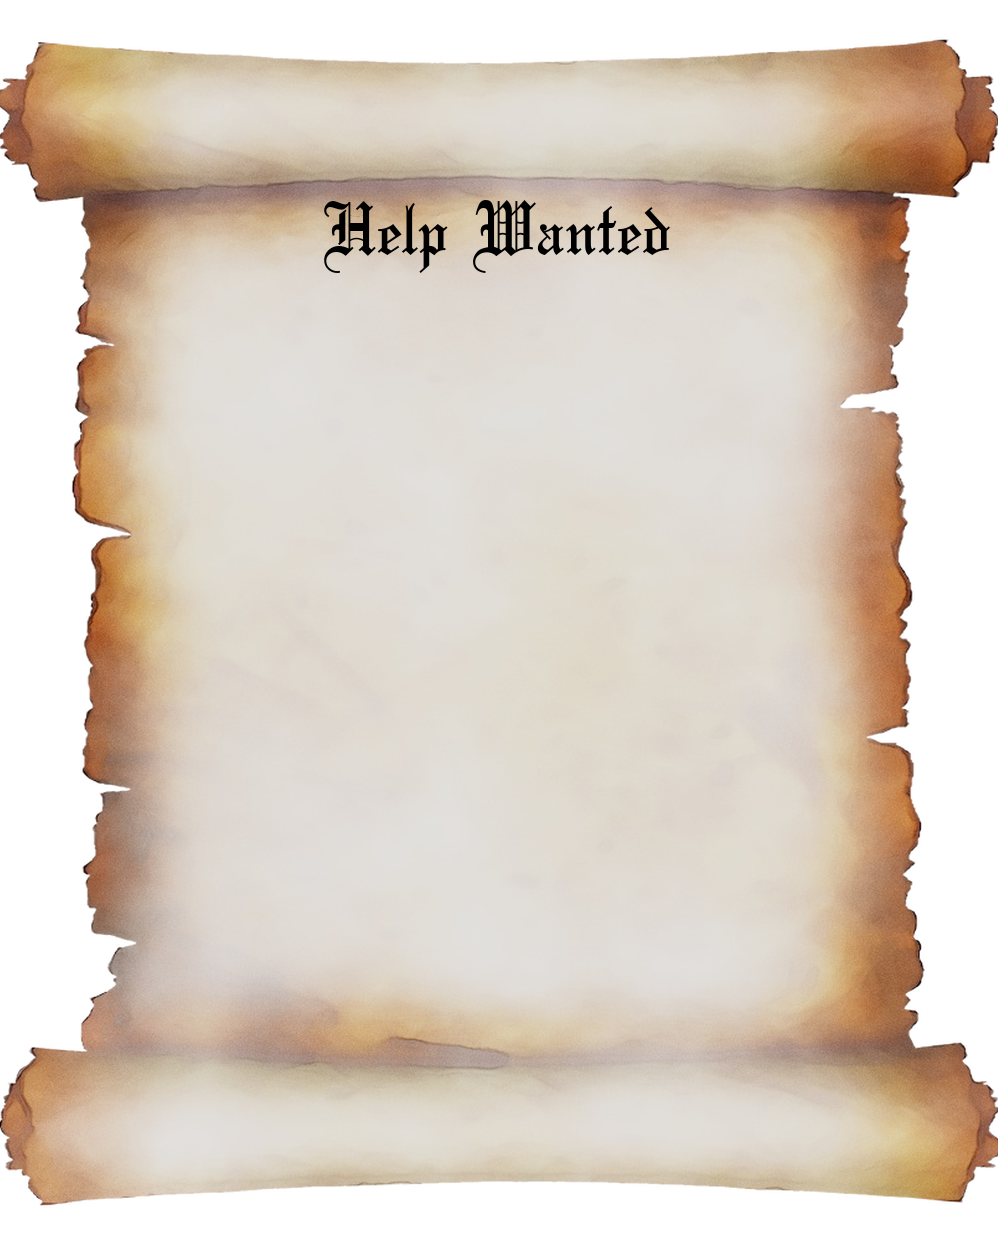
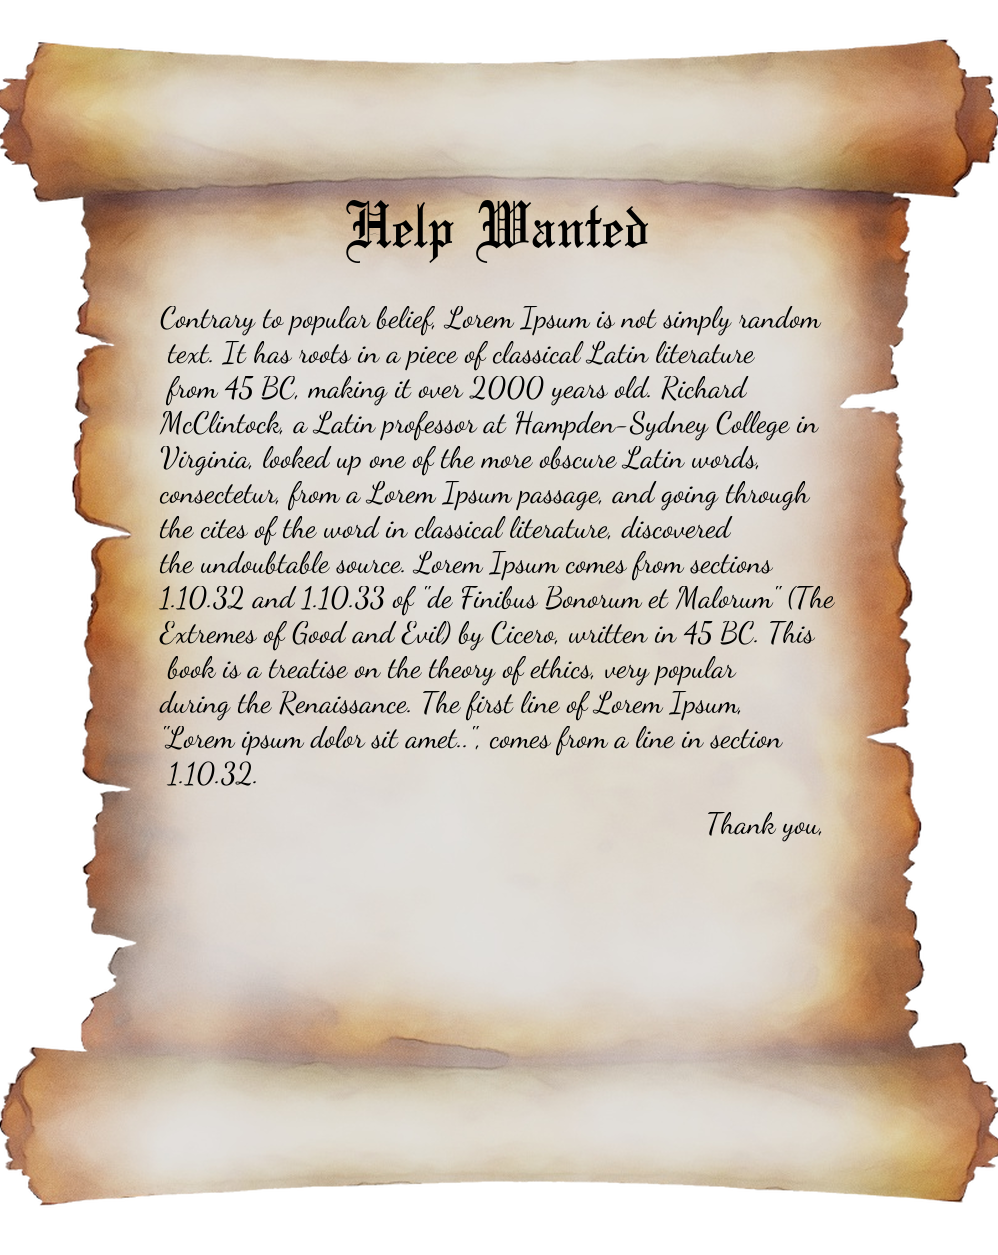
Finished base function

Changed region(s): [[0.1553, 0.2486, 0.8387, 0.6215], [0.3106, 0.1554, 0.6834, 0.2175], [0.7144, 0.6526, 0.8076, 0.6837]]

diff --git a/main/cogs/utils/letter_gen.py b/main/cogs/utils/letter_gen.py
@@ -7,6 +7,7 @@
 import logging
 import os
 import sys
+import textwrap
 
 # Third party imports
 import discord # noqa
@@ -20,27 +21,66 @@ from PIL import Image, ImageDraw, ImageFont
 # from settings import embeds as emb # noqa
 
 log = logging.getLogger(__name__)
-path = "images/"
+path = "./main/cogs/util/images/"
 error_log = []
+
+
+# --------------------------------------------------------------------------
+#                            Adding signature
+# --------------------------------------------------------------------------
+def add_signature(bg, msg, ctn):
+    try:
+        # Get size of image
+        width, height = bg.size
+
+        # Get singature data
+        signature = ImageDraw.Draw(bg)
+        fnt = ImageFont.truetype(f'{path}DancingScript.ttf', 30)
+        w, h = signature.textsize(msg, font=fnt)
+
+        # Calc location
+        place_w = width - (165 + w)
+        place_h = 300 + ctn[1] + 20
+
+        # Draw signature
+        signature.multiline_text((place_w, place_h), msg, font=fnt, fill='black', align='right')
+
+        error_log.append('Added Signature')
+        return (bg)
+    except Exception as e:
+        print(e)
+        error_log.append('Erro Adding Signature')
+        return
 
 
 # --------------------------------------------------------------------------
 #                            Adding content
 # --------------------------------------------------------------------------
-def add_content(bg, msg):
+def add_content(bg, msg, ctn):
     try:
         # Get size of image
         width, height = bg.size
+        # msg = "\n".join(wrap(msg, width=60))
+        wrapper = textwrap.TextWrapper(width=60, replace_whitespace=False, drop_whitespace=False)
+        msg = wrapper.fill(text=msg)
 
         # Get content data
         content = ImageDraw.Draw(bg)
-        fnt = ImageFont.truetype(f'{path}DancingScript.ttf', 40)
+        fnt = ImageFont.truetype(f'{path}DancingScript.ttf', 30)
         w, h = content.textsize(msg, font=fnt)
 
+        # Calc location
+        place_w = 160
+        if ctn is True:
+            place_h = 250
+        else:
+            place_h = 300
+
         # Draw content
+        content.multiline_text((place_w, 300), msg, font=fnt, fill='black')
 
         error_log.append('Added Content')
-        return bg
+        return bg, (w, h)
     except Exception as e:
         print(e)
         error_log.append('Error adding content')
@@ -57,7 +97,7 @@ def add_title(bg, msg):
 
         # Get title data
         title = ImageDraw.Draw(bg)
-        fnt = ImageFont.truetype(f"{path}OldeEnglish.ttf", 80)
+        fnt = ImageFont.truetype(f"{path}OldeEnglish.ttf", 70)
         w, h = title.textsize(msg, font=fnt)
         place_w = int((width - w) / 2)
 
@@ -65,7 +105,7 @@ def add_title(bg, msg):
         title.text((place_w, 200), msg, font=fnt, fill='black')
         error_log.append('Added title')
 
-        return bg
+        return bg, (w, h)
 
     except Exception as e:
         print(e)
@@ -91,35 +131,30 @@ def get_bg():
 # --------------------------------------------------------------------------
 #                                 Main
 # --------------------------------------------------------------------------
-def main():
-    # sort out vars
-    title = "Help Wanted"
-    content = """
-Lorem Ipsum is simply dummy text of the printing and typesetting industry. Lorem Ipsum has been the
-industry's standard dummy text ever since the 1500s, when an unknown printer took a galley of type
-and scrambled it to make a type specimen book. It has survived not only five centuries, but also
-the leap into electronic typesetting, remaining essentially unchanged. It was popularised in the
-1960s with the release of Letraset sheets containing Lorem Ipsum passages, and more recently with
-desktop publishing software like Aldus PageMaker including versions of Lorem Ipsum.
-    """
+def main(title=None, content=None, signature=None, skip=True):
 
     # Get image from file
     bg = get_bg()
 
     # Adding a title
     if title:
-        bg = add_title(bg, title)
+        bg, skip = add_title(bg, title)
+        print(bg)
 
     # Adding content
-    bg = add_content(bg, content)
+    bg, content_details = add_content(bg, content, skip)
+    print(bg)
 
     # Adding signature
-    bg = add_signature(bg, signature)
+    bg = add_signature(bg, signature, content_details)
+    print(bg)
 
     try:
         bg.save('pil_text_font.png')
+        return bg
     except Exception as e:
         print(e)
+        return
 
 
 if __name__ == "__main__":

diff --git a/main/cogs/Dnd.py b/main/cogs/Dnd.py
@@ -99,7 +99,9 @@ class Dnd(commands.Cog):
     #                                   Letter gen
     @commands.command(name="gletter")
     async def gletter(self, ctx):
-        lettergen.main()
+
+
+        image = lettergen.main()
 
 
 def setup(bot):
